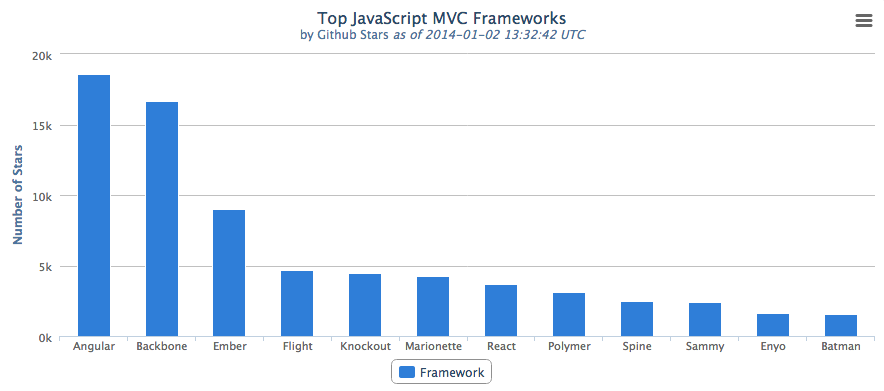
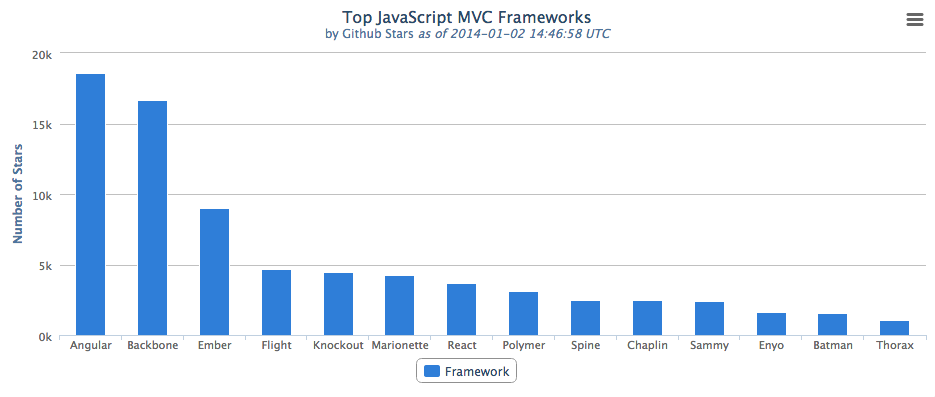
added Chaplin and Thorax

Changed region(s): [[0.0, 0.1841, 0.9774, 0.9821], [0.0305, 0.0307, 0.9774, 0.1535], [0.9468, 0.0307, 1.0, 0.0614]]

diff --git a/README.md b/README.md
@@ -13,11 +13,13 @@ Based on the number of people who starred the Github repositores, we get the fol
 7. React (3688)
 8. Polymer (3108)
 9. Spine (2489)
-10. Sammy (2388)
-11. Enyo (1657)
-12. Batman (1568)
+10. Chaplin (2483)
+11. Sammy (2388)
+12. Enyo (1657)
+13. Batman (1568)
+14. Thorax (1098)
 
-Notice that if we count the Backbone extension frameworks like Marionette(4248), Chaplin(2476), and Thorax(1093), Backbone is still #1.  But it looks like Angular is growing at a faster rate than others and should surprise the Backbone+extension total at some point.
+Notice that if we count the Backbone extension frameworks like Marionette(4261), Chaplin(2483), and Thorax(1098), Backbone is still #1.  But it looks like Angular is growing at a faster rate than others and should surprise the Backbone+extension total at some point.
 
 I wrote this little app using Rails 4, Twitter Bootstrap, Highcharts, and MongoDB/Mongoid to track the rankings of those frameworks, see the screen shot below.
 
@@ -49,9 +51,11 @@ Marionette [https://github.com/marionettejs/backbone.marionette](https://github.
 React [https://github.com/facebook/react](https://github.com/facebook/react)  
 Polymer [https://github.com/polymer/polymer](https://github.com/polymer/polymer)  
 Spine [https://github.com/spine/spine](https://github.com/spine/spine)  
+Chaplin [https://github.com/chaplinjs/chaplin](https://github.com/chaplinjs/chaplin)  
 Sammy [https://github.com/quirkey/sammy](https://github.com/quirkey/sammy)  
 Enyo [https://github.com/enyojs/enyo](https://github.com/enyojs/enyo)  
 Batman [https://github.com/batmanjs/batman](https://github.com/batmanjs/batman)  
+Thorax [https://github.com/walmartlabs/thorax](https://github.com/walmartlabs/thorax)
 
 TodoMVC [http://todomvc.com/](http://todomvc.com/)
 
